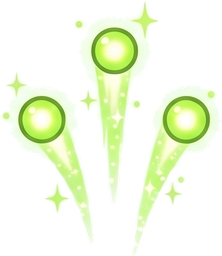
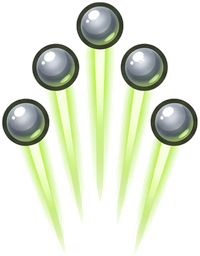
feat(rush3): 탄환 3종 재디자인 — 기관총·저격·산탄을 소총 그림체로
이사 소감(2026-09-23): "제일 납득이 가는 것들은 소총, 전격총, 중화기. 저격총, 기관총, 산탄총은 디자인이 매우 이상하다."

- 기관총: 펜 두 자루 같던 바늘 → 청록 탄두 짧은 탄 두 발 + 청록 예광 꼬리
- 저격: 칼날 같던 바늘 → 긴 은색 철갑탄 + 곧은 흰·청 광선
- 산탄: 초록 방울 → 금속 구슬 5개 부채꼴 + 라임 꼬리
- Gemini 1회 생성(소총 그림 첨부), tools/states/bullets_split.py 로 분할(칸별 bbox, 높이 256)

diff --git a/tools/states/bullets_split.py b/tools/states/bullets_split.py
@@ -1,0 +1,35 @@
+# -*- coding: utf-8 -*-
+"""v8 탄환 라인업(Gemini) → BULLET_auto / BULLET_sniper / BULLET_scatter.
+   states_split.py 의 unchecker(체커·흰 배경 제거)를 그대로 쓰고, 칸마다 **자기 bbox** 로 잘라 높이 256 으로 맞춘다
+   (탄은 무기마다 길이가 달라 render.BULLET_LEN 이 화면 길이를 정한다 — 세 칸 공통 세로 구간을 쓰면 짧은 탄에 빈 여백이 남는다)."""
+import os, sys
+import numpy as np
+from PIL import Image
+sys.path.insert(0, os.path.dirname(os.path.abspath(__file__)))
+import importlib.util
+spec = importlib.util.spec_from_file_location('ss', os.path.join(os.path.dirname(os.path.abspath(__file__)), 'states_split_lib.py'))
+
+SRC = r"E:\workspace\claude\neon-fleet\newmode\sprites\bullets_v8\L_bullets_v8.png"
+DST = r"E:\workspace\claude\neon-fleet\worktrees\v3-lastwar\assets\rush"
+NAMES = ["BULLET_auto", "BULLET_sniper", "BULLET_scatter"]
+
+def run(unchecker):
+    im, info = unchecker(SRC)
+    a = np.array(im)[:, :, 3]
+    cols = (a > 8).sum(axis=0).astype(float)
+    k = 9; sm = np.convolve(cols, np.ones(k) / k, mode='same'); W = im.width
+    w1 = (int(W * 0.24), int(W * 0.45)); w2 = (int(W * 0.55), int(W * 0.78))
+    cuts = sorted([w1[0] + int(np.argmin(sm[w1[0]:w1[1]])), w2[0] + int(np.argmin(sm[w2[0]:w2[1]]))])
+    xs = [0] + cuts + [W]
+    out = []
+    for i, nm in enumerate(NAMES):
+        part = im.crop((xs[i], 0, xs[i + 1], im.height))
+        bb = part.getbbox()
+        part = part.crop(bb)
+        pad = 4
+        cv = Image.new("RGBA", (part.width + 2 * pad, part.height + 2 * pad), (0, 0, 0, 0)); cv.paste(part, (pad, pad))
+        h = 256; w = max(1, round(cv.width * h / cv.height))
+        cv = cv.resize((w, h), Image.LANCZOS)
+        cv.save(os.path.join(DST, nm + ".png"), optimize=True)
+        out.append((nm, cv.size))
+    return info, cuts, out

diff --git a/newmode/v3/이미지프롬프트_v8_탄환3종.md b/newmode/v3/이미지프롬프트_v8_탄환3종.md
@@ -16,4 +16,6 @@ Match the attached bullet sprite's style EXACTLY - same glossy toy-like game ren
 
 ## 생성 결과
 
-(생성 후 기록)
+- 2026-09-23 저녁 1회 통과(Gemini Flash · Nano Banana 2 · 16:9, 소총 첨부). 원본 = `newmode/sprites/bullets_v8/L_bullets_v8.png`(배경은 체커가 아니라 거의 흰색 254/240 — 같은 unchecker 로 제거됨).
+- 분할 = `tools/states/bullets_split.py`(칸마다 자기 bbox → 높이 256). 기관총 113×256 · 저격 34×256 · 산탄 200×256.
+- 결과: 기관총 = 청록 탄두 짧은 탄 두 발 + 청록 꼬리 · 저격 = 긴 은색 철갑탄 + 곧은 흰·청 광선 · 산탄 = 금속 구슬 5개 부채꼴 + 라임 꼬리. 소총·중화기·전격과 그림체가 맞는다.
